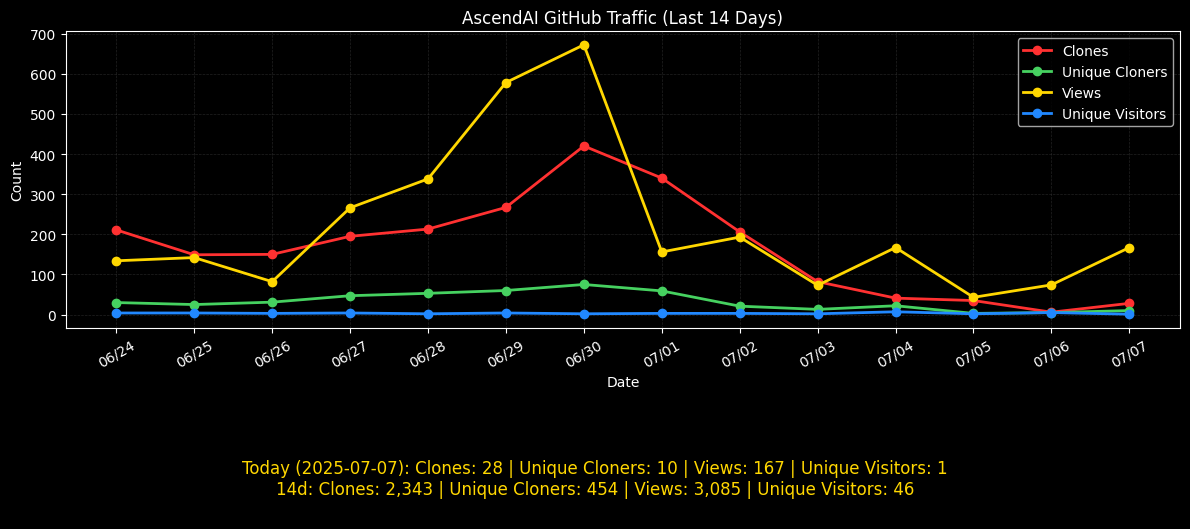
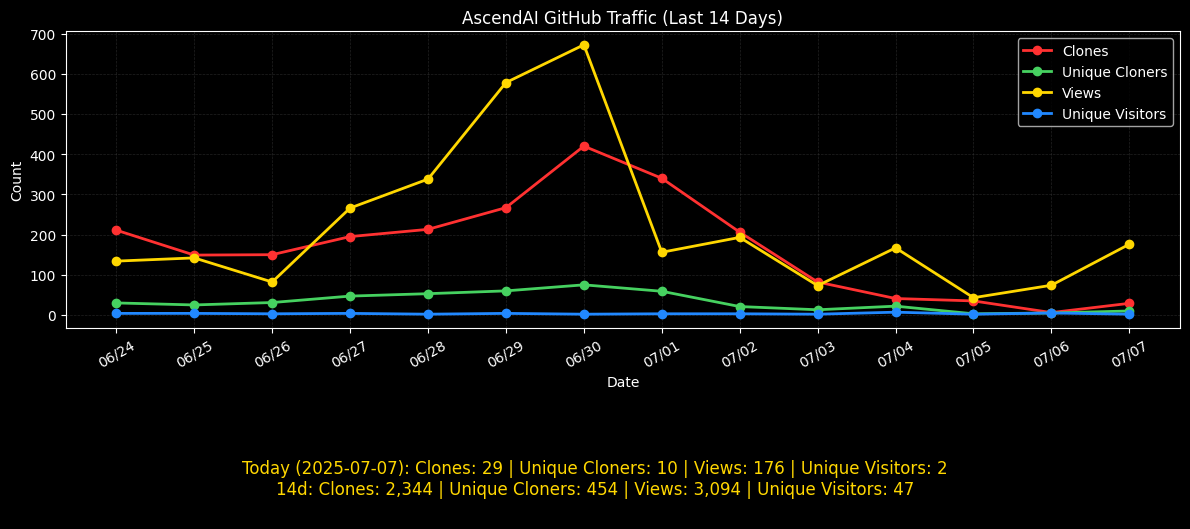
Update traffic data and graph

diff --git a/docs/graph/traffic_totals.md b/docs/graph/traffic_totals.md
@@ -1,6 +1,6 @@
 
 **GitHub Traffic Totals**
 
-- **Today (2025-07-07):** Clones: 28 | Unique Cloners: 10 | Views: 167 | Unique Visitors: 1
-- **Last 14 days:** Clones: 2,343 | Unique Cloners: 454 | Views: 3,085 | Unique Visitors: 46
+- **Today (2025-07-07):** Clones: 29 | Unique Cloners: 10 | Views: 176 | Unique Visitors: 2
+- **Last 14 days:** Clones: 2,344 | Unique Cloners: 454 | Views: 3,094 | Unique Visitors: 47
 - **Lifetime:** Clones: 2,675 | Unique Cloners: 552 | Views: 2,596 | Unique Visitors: 68
